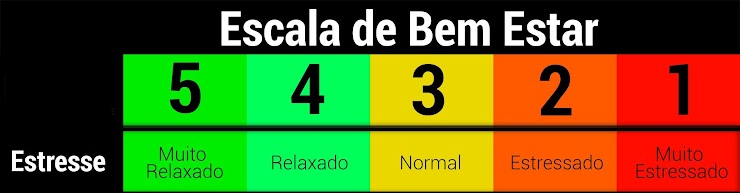
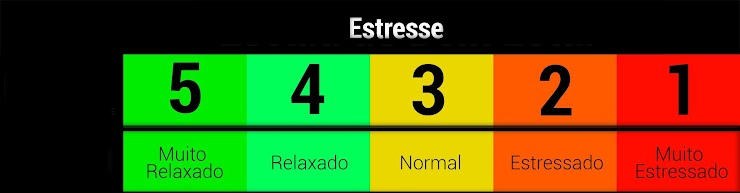
Imagens pre com cache bust; sem botao voltar no questionario; persistir e restaurar estado ao atualizar (continuar de onde parou)

Changed region(s): [[0.2797, 0.0311, 0.8081, 0.2487], [0.0, 0.7772, 0.1554, 0.9016]]

diff --git a/js/screens/questionnaire.js b/js/screens/questionnaire.js
@@ -14,23 +14,7 @@ function goQuestionnaire(){
         return typeof q === "string" ? q : (q && q.texto ? q.texto : "");
     });
     
-    // Botão de voltar - verificar de onde veio
-    let backButtonHTML = "";
-    const cameFrom = state.cameFromScreen;
-    
-    if(cameFrom === "addPlayerToTraining" || cameFrom === "trainingDetails"){
-        // Se veio de adicionar jogador atrasado ou detalhes do treino, voltar para detalhes
-        backButtonHTML = `<button class="back-btn" onclick="viewTrainingDetails('${state.currentTrainingId}')">
-            <i data-feather="arrow-left"></i>
-            <span>${player ? player.name : "Voltar"}</span>
-        </button>`;
-    } else {
-        // Caso normal (fluxo de questionários), voltar para seleção de jogador
-        backButtonHTML = `<button class="back-btn" onclick="goSelectPlayer('${mode}')">
-            <i data-feather="arrow-left"></i>
-            <span>${player ? player.name : "Voltar"}</span>
-        </button>`;
-    }
+    // Sem botão voltar: jogador não pode sair até terminar o questionário
 
     // montar inputs baseado no tipo de pergunta
     const qItemsHTML = qsList.map((qObj,idx)=>{
@@ -77,7 +61,8 @@ function goQuestionnaire(){
             }
         }
         
-        const imageHTML = q.imagem ? `<img src="${q.imagem}" alt="Imagem da pergunta" class="q-image">` : "";
+        const imgSrc = q.imagem ? (q.imagem + "?v=" + (window.__IMAGE_VERSION != null ? window.__IMAGE_VERSION : Date.now())) : "";
+        const imageHTML = imgSrc ? `<img src="${imgSrc}" alt="Imagem da pergunta" class="q-image">` : "";
         const qTextEscaped = (qText || "").replace(/"/g, "&quot;");
         return `
         <div class="q-item" data-question-index="${idx}" data-question-text="${qTextEscaped}">
@@ -90,7 +75,6 @@ function goQuestionnaire(){
     renderScreen(`
         <div class="questionnaire-wrapper">
             <div class="back-row">
-                ${backButtonHTML}
                 <div>
                     <div class="screen-title">
                         ${mode==="pre" ? "Questionário Pré Treino" : "Questionário Pós Treino"}
@@ -112,13 +96,51 @@ function goQuestionnaire(){
         </div>
     `);
 
-    // Sempre começar do topo da página ao abrir/trocar de jogador no questionário (melhor navegabilidade)
     window.scrollTo(0, 0);
     const qList = document.querySelector(".q-list");
     if (qList) qList.scrollTop = 0;
 
-    // Ocultar botão de configurações
+    applyTempAnswersToDOM();
+    if (typeof saveResumeState === "function") saveResumeState();
     updateSettingsButtonVisibility();
+}
+
+function applyTempAnswersToDOM(){
+    if (!state.currentQuestionTexts || !state.tempAnswers) return;
+    var items = document.querySelectorAll(".q-item");
+    for (var i = 0; i < items.length; i++) {
+        var qText = state.currentQuestionTexts[i];
+        if (!qText) continue;
+        var val = state.tempAnswers[qText];
+        if (val === undefined || val === null) continue;
+        var item = items[i];
+        var textarea = item.querySelector("textarea.q-input");
+        if (textarea) {
+            textarea.value = Array.isArray(val) ? val.join(", ") : String(val);
+            continue;
+        }
+        var scale = item.querySelector(".rating-scale");
+        if (scale && !scale.classList.contains("choice-buttons-multi")) {
+            var valueStr = Array.isArray(val) ? (val[0] != null ? String(val[0]) : "") : String(val);
+            scale.querySelectorAll(".rating-btn").forEach(function(btn){
+                btn.classList.toggle("selected", (btn.textContent || "").trim() === valueStr);
+            });
+            continue;
+        }
+        if (scale && scale.classList.contains("choice-buttons-multi")) {
+            var arr = Array.isArray(val) ? val : (val ? [val] : []);
+            scale.querySelectorAll(".rating-btn").forEach(function(btn){
+                var v = btn.getAttribute("data-value");
+                btn.classList.toggle("selected", arr.indexOf(v) !== -1);
+            });
+            continue;
+        }
+        var radios = item.querySelectorAll('input[type="radio"]');
+        if (radios.length) {
+            var radioVal = Array.isArray(val) ? (val[0] != null ? String(val[0]) : "") : String(val);
+            radios.forEach(function(r){ r.checked = (r.value === radioVal); });
+        }
+    }
 }
 
 /** Retorna o texto da pergunta pelo índice. Usa a lista gravada ao abrir o questionário (state.currentQuestionTexts) para não depender de loadQuestions() no clique. */

diff --git a/js/app.js b/js/app.js
@@ -2,6 +2,42 @@
    🚀 INICIALIZAÇÃO DA APLICAÇÃO
    =========================== */
 
+window.__IMAGE_VERSION = Date.now();
+
+function tryRestoreResumeState() {
+    var saved = typeof loadResumeState === "function" ? loadResumeState() : null;
+    if (!saved || !saved.currentScreen) return false;
+    var lockEl = document.getElementById("lock-screen");
+    if (lockEl) lockEl.setAttribute("data-unlocked", "true");
+    if (saved.currentScreen === "questionnaire" && saved.currentTrainingId && saved.currentPlayerId) {
+        state.currentScreen = saved.currentScreen;
+        state.currentMode = saved.currentMode;
+        state.currentTrainingId = saved.currentTrainingId;
+        state.currentPlayerId = saved.currentPlayerId;
+        state.selectedPlayerIds = saved.selectedPlayerIds || [];
+        state.pendingByMode = saved.pendingByMode || { pre: [], post: [] };
+        state.cameFromScreen = saved.cameFromScreen;
+        state.tempAnswers = saved.tempAnswers || {};
+        state.currentQuestionTexts = saved.currentQuestionTexts;
+        if (state.currentMode) setHeaderModeLabel(state.currentMode === "pre" ? "Pré Treino" : "Pós Treino");
+        goQuestionnaire();
+        return true;
+    }
+    if (saved.currentScreen === "selectPlayer" && saved.currentMode) {
+        state.currentScreen = saved.currentScreen;
+        state.currentMode = saved.currentMode;
+        state.currentTrainingId = saved.currentTrainingId;
+        state.selectedPlayerIds = saved.selectedPlayerIds || [];
+        state.pendingByMode = saved.pendingByMode || { pre: [], post: [] };
+        state.currentPlayerId = null;
+        state.tempAnswers = {};
+        setHeaderModeLabel(saved.currentMode === "pre" ? "Pré Treino" : "Pós Treino");
+        goSelectPlayer(saved.currentMode);
+        return true;
+    }
+    return false;
+}
+
 // Carregar lista padrão de jogadores (com fotos) do servidor quando não houver dados no localStorage
 function initDefaultPlayersThenHome() {
     var players = typeof loadPlayers === "function" ? loadPlayers() : [];
@@ -18,9 +54,11 @@ function initDefaultPlayersThenHome() {
             .catch(function () {
                 if (typeof savePlayers === "function" && typeof defaultPlayers !== "undefined") savePlayers(defaultPlayers);
             })
-            .finally(function () { goHome(); });
+            .finally(function () {
+                if (!tryRestoreResumeState()) goHome();
+            });
     } else {
-        goHome();
+        if (!tryRestoreResumeState()) goHome();
     }
 }
 // Em produção, acordar o backend (Render) em background para reduzir 502 no primeiro sync
@@ -28,7 +66,7 @@ if (typeof wakeBackendIfNeeded === "function") wakeBackendIfNeeded();
 // Inicializar (carrega jogadores do servidor se vazio, depois mostra home)
 initDefaultPlayersThenHome();
 
-// Limpar intervalo ao sair da página
 window.addEventListener('beforeunload', function(){
-    if(window.dateTimeInterval) clearInterval(window.dateTimeInterval);
+    if (window.dateTimeInterval) clearInterval(window.dateTimeInterval);
+    if (typeof saveResumeState === "function") saveResumeState();
 });

diff --git a/js/state.js b/js/state.js
@@ -24,3 +24,36 @@ let state = {
 function resetPendingForMode(mode){
     state.pendingByMode[mode] = [...state.selectedPlayerIds];
 }
+
+const RESUME_STATE_KEY = "treino_resume_state";
+
+function saveResumeState(){
+    try {
+        var s = state;
+        if (s.currentScreen !== "questionnaire" && s.currentScreen !== "selectPlayer") return;
+        var payload = {
+            currentScreen: s.currentScreen,
+            currentMode: s.currentMode,
+            currentTrainingId: s.currentTrainingId,
+            currentPlayerId: s.currentPlayerId,
+            selectedPlayerIds: s.selectedPlayerIds || [],
+            pendingByMode: s.pendingByMode ? { pre: (s.pendingByMode.pre || []).slice(), post: (s.pendingByMode.post || []).slice() } : { pre: [], post: [] },
+            cameFromScreen: s.cameFromScreen,
+            tempAnswers: s.tempAnswers ? JSON.parse(JSON.stringify(s.tempAnswers)) : {},
+            currentQuestionTexts: s.currentQuestionTexts || null
+        };
+        localStorage.setItem(RESUME_STATE_KEY, JSON.stringify(payload));
+    } catch (e) { console.warn("saveResumeState:", e); }
+}
+
+function loadResumeState(){
+    try {
+        var raw = localStorage.getItem(RESUME_STATE_KEY);
+        if (!raw) return null;
+        return JSON.parse(raw);
+    } catch (e) { return null; }
+}
+
+function clearResumeState(){
+    try { localStorage.removeItem(RESUME_STATE_KEY); } catch (e) {}
+}

diff --git a/js/screens/home.js b/js/screens/home.js
@@ -3,11 +3,10 @@
    =========================== */
 
 function goHome(){
-    // Sempre mostrar tela de bloqueio quando voltar para home
+    if (typeof clearResumeState === "function") clearResumeState();
     if (typeof window.showLockScreen === 'function') {
         window.showLockScreen();
     }
-
     state.currentScreen = "home";
     state.currentMode = null;
     state.currentTrainingId = null;

diff --git a/js/storage.js b/js/storage.js
@@ -6,7 +6,8 @@ const STORAGE_KEYS = {
     PLAYERS: "treino_players",
     QUESTIONS: "treino_questions",
     RESPONSES: "treino_responses",
-    TRAININGS: "treino_trainings"  // Sessões de treino
+    TRAININGS: "treino_trainings",
+    RESUME_STATE: "treino_resume_state"
 };
 
 // Jogadores padrão da temporada (usados quando não há dados salvos ou ao restaurar padrão)

diff --git a/js/screens/selectPlayer.js b/js/screens/selectPlayer.js
@@ -85,8 +85,7 @@ function goSelectPlayer(mode){
             ${actionButtonsHTML}
         </div>
     `);
-    
-    // Ocultar botão de configurações
+    if (typeof saveResumeState === "function") saveResumeState();
     updateSettingsButtonVisibility();
     feather.replace();
 }
